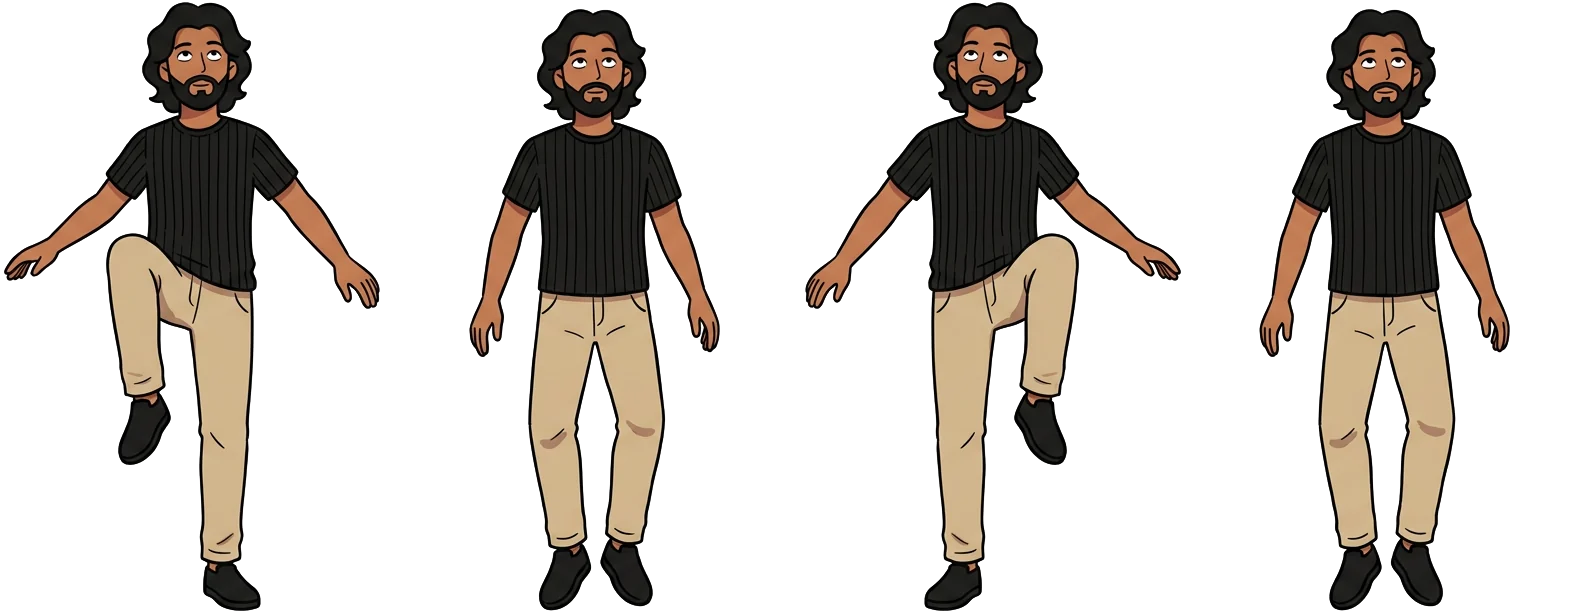
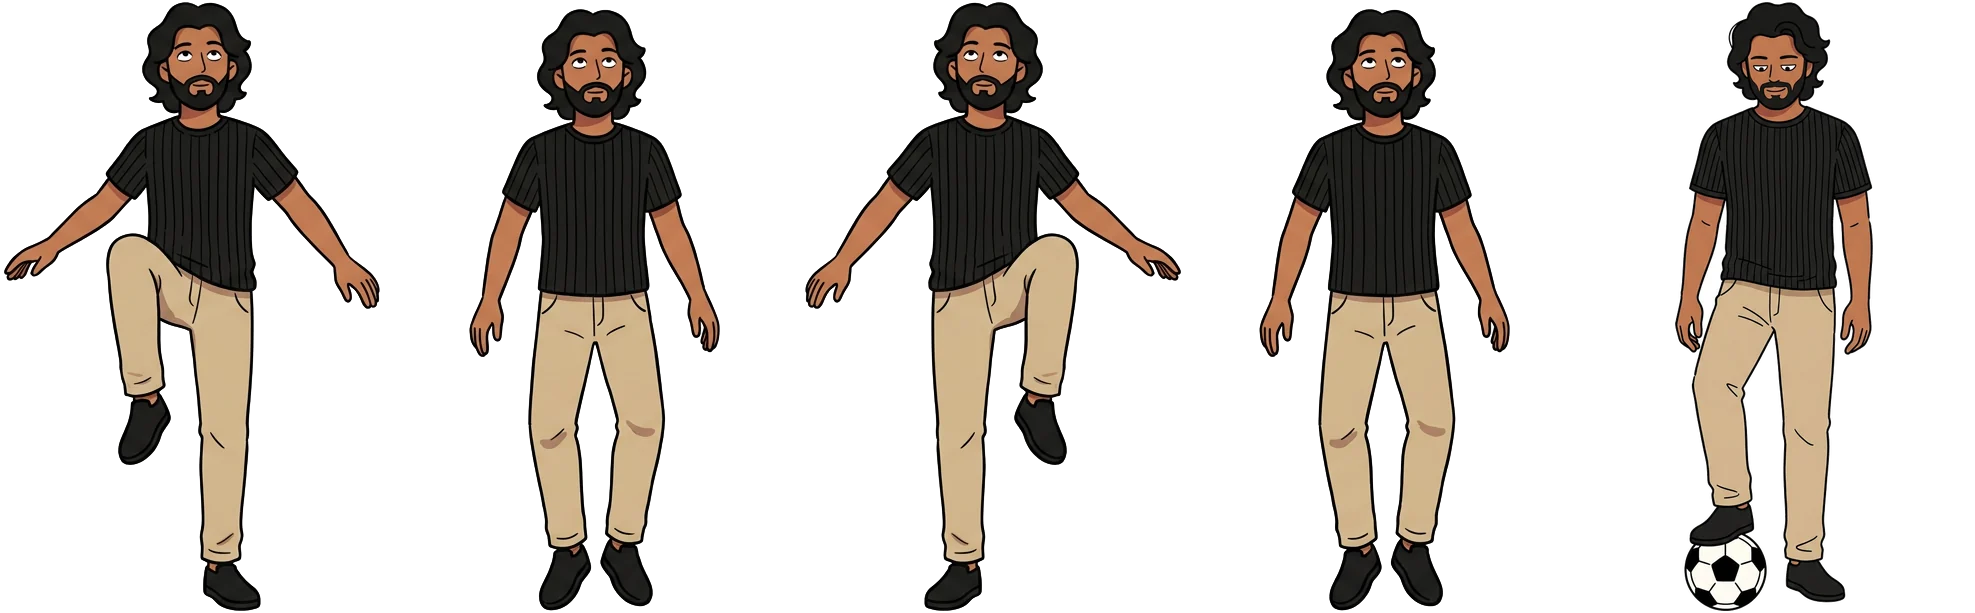
v136: keepy-ups rest with the foot on the ball, eyes follow the ball
- Rest pose: weight on the left leg, right foot on the ball on the ground
- Play starts and ends from that pose
- His eyes track the ball up and down to each foot

Claude-Session: https://claude.ai/code/session_013G15fzCMwgXvJexXZMdXm4

diff --git a/index.html b/index.html
@@ -24,11 +24,11 @@
   <meta property="og:image:height" content="630">
   <meta property="og:image:alt" content="Sijo Joseph, product, UX and AI designer, with four case study covers">
   <meta name="twitter:card" content="summary_large_image">
-  <script src="update.js?v=135"></script>
-  <script src="gate.js?v=135"></script>
-  <link href="fonts/fonts.css?v=135" rel="stylesheet">
-  <link rel="stylesheet" href="styles.css?v=135">
-  <link rel="stylesheet" href="reader.css?v=135">
+  <script src="update.js?v=136"></script>
+  <script src="gate.js?v=136"></script>
+  <link href="fonts/fonts.css?v=136" rel="stylesheet">
+  <link rel="stylesheet" href="styles.css?v=136">
+  <link rel="stylesheet" href="reader.css?v=136">
   <script type="importmap">
   {
     "imports": {
@@ -42,10 +42,10 @@
   <link rel="modulepreload" href="vendor/three/examples/jsm/loaders/GLTFLoader.js">
   <link rel="modulepreload" href="vendor/three/examples/jsm/controls/OrbitControls.js">
   <link rel="modulepreload" href="vendor/three/examples/jsm/libs/meshopt_decoder.module.js">
-  <link rel="modulepreload" href="main.js?v=135">
-  <link rel="modulepreload" href="sound.js?v=135">
-  <link rel="modulepreload" href="room-utils.js?v=135">
-  <link rel="modulepreload" href="cat.js?v=135">
+  <link rel="modulepreload" href="main.js?v=136">
+  <link rel="modulepreload" href="sound.js?v=136">
+  <link rel="modulepreload" href="room-utils.js?v=136">
+  <link rel="modulepreload" href="cat.js?v=136">
   <script type="application/ld+json">{"@context": "https://schema.org", "@type": "Person", "name": "Sijo Joseph", "url": "https://sijo.work/", "jobTitle": "Product, UX and AI designer", "alumniOf": {"@type": "CollegeOrUniversity", "name": "National Institute of Design, Bengaluru"}, "address": {"@type": "PostalAddress", "addressLocality": "Bengaluru", "addressCountry": "IN"}, "sameAs": ["https://www.linkedin.com/in/sijodesign", "https://github.com/sijojoseph7509-a11y"], "knowsAbout": ["Product design", "UX design", "Interaction design", "Information design", "Wayfinding", "Brand identity", "AI-assisted prototyping"]}</script>
 </head>
 <body>
@@ -91,8 +91,8 @@
     <!-- Sijo doing keepy-ups in a flat-colour editorial style (Figma AI): a strip of frames played as a flip-book in CSS, with the ball on top -->
     <button class="wl-work" id="introWork" type="button"><i>Here for the work?</i> <b>Skip the desk, see my projects</b> <span aria-hidden="true">→</span></button>
     <div class="wl-ill wl-juggle" aria-hidden="true">
-      <div class="wl-sprite"><img src="assets/welcome/juggle.webp" alt="" width="1580" height="613" decoding="async"></div>
-      <svg viewBox="0 0 395 613"><g class="wl-kick wl-kick-l" stroke="#161616" stroke-width="4" stroke-linecap="round"><path d="M106,494 l-16,4 M110,510 l-16,9 M164,490 l16,-5"/></g><g class="wl-kick wl-kick-r" stroke="#161616" stroke-width="4" stroke-linecap="round"><path d="M230,490 l-16,-5 M288,494 l16,4 M284,510 l16,9"/></g><g class="wl-ball"><g class="wl-spin"><circle r="24" fill="#fff" stroke="#161616" stroke-width="3.5"/><path d="M0,-8.4 L8.0,-2.6 L4.9,6.8 L-4.9,6.8 L-8.0,-2.6 Z" fill="#161616"/><path d="M0,-8.4 V-22.1 M8.0,-2.6 L20.9,-6.7 M4.9,6.8 L12.7,18.5 M-4.9,6.8 L-12.7,18.5 M-8.0,-2.6 L-20.9,-6.7" stroke="#161616" stroke-width="3" stroke-linecap="round" fill="none"/></g></g></svg>
+      <div class="wl-sprite"><img src="assets/welcome/juggle.webp" alt="" width="1975" height="613" decoding="async"></div>
+      <svg viewBox="0 0 395 613"><g class="wl-kick wl-kick-l" stroke="#161616" stroke-width="4" stroke-linecap="round"><path d="M106,494 l-16,4 M110,510 l-16,9 M164,490 l16,-5"/></g><g class="wl-kick wl-kick-r" stroke="#161616" stroke-width="4" stroke-linecap="round"><path d="M230,490 l-16,-5 M288,494 l16,4 M284,510 l16,9"/></g><g class="wl-eyes"><g class="wl-eye wl-eye-l"><ellipse rx="7.4" ry="5.6" fill="#fff" stroke="#161616" stroke-width="1.6"/><circle class="wl-pupil" r="2.7" fill="#161616"/></g><g class="wl-eye wl-eye-r"><ellipse rx="7.4" ry="5.6" fill="#fff" stroke="#161616" stroke-width="1.6"/><circle class="wl-pupil" r="2.7" fill="#161616"/></g></g><g class="wl-ball"><g class="wl-spin"><circle r="24" fill="#fff" stroke="#161616" stroke-width="3.5"/><path d="M0,-8.4 L8.0,-2.6 L4.9,6.8 L-4.9,6.8 L-8.0,-2.6 Z" fill="#161616"/><path d="M0,-8.4 V-22.1 M8.0,-2.6 L20.9,-6.7 M4.9,6.8 L12.7,18.5 M-4.9,6.8 L-12.7,18.5 M-8.0,-2.6 L-20.9,-6.7" stroke="#161616" stroke-width="3" stroke-linecap="round" fill="none"/></g></g></svg>
     </div>
     <div class="loader-inner">
       <span class="loader-name" role="img" aria-label="Sijo Joseph"><img src="assets/brand/sj-mark-on-dark.svg" alt=""></span>
@@ -195,11 +195,11 @@
     </div>
   </noscript>
 
-  <script src="content.js?v=135"></script>
-  <script src="track.js?v=135"></script>
-  <script src="icons.js?v=135"></script>
-  <script src="os.js?v=135"></script>
-  <script src="music.js?v=135"></script>
-  <script type="module" src="main.js?v=135"></script>
+  <script src="content.js?v=136"></script>
+  <script src="track.js?v=136"></script>
+  <script src="icons.js?v=136"></script>
+  <script src="os.js?v=136"></script>
+  <script src="music.js?v=136"></script>
+  <script type="module" src="main.js?v=136"></script>
 </body>
 </html>

diff --git a/styles.css b/styles.css
@@ -699,24 +699,36 @@ button.card .cover::before, button.card .cover::after { display: none; }   /* re
 
 /* each drawing is a strip of frames shown one at a time (a flip-book), so the legs and arms really move */
 .wl-sprite { position: relative; overflow: hidden; }
-.wl-ill .wl-sprite img { width: 400%; max-width: none; height: auto; transform: translateX(-50%); }
+.wl-ill .wl-sprite img { width: 500%; max-width: none; height: auto; transform: translateX(-80%); }   /* at rest: the fifth cell, right foot on the ball */
 .wl-juggle .wl-sprite { aspect-ratio: 395 / 613; }
 
 /* keepy-ups, both feet in turn: left knee, bounce, right knee, bounce; the ball goes foot to foot over his head, he hops between
    touches and drifts side to side */
-/* play, then rest: three touches when the page opens (and again on hover), then he stands balancing the ball on his right foot.
-   main.js adds .go and removes it when the frames finish; one touch every 1.6 s */
-.wl-juggle.go { animation: wlDrift 4.8s ease-in-out 1; }
-.wl-juggle.go .wl-sprite img { animation: wlJFrames 3.2s 1.5 forwards; }
-.wl-juggle.go .wl-sprite { animation: wlHop 3.2s ease-in-out 1.5; }
-.wl-juggle.go .wl-ball { animation: wlFoot 3.2s 1.5 forwards; }
-.wl-juggle.go .wl-spin { animation: wlSpin 1.6s linear 3; }
-.wl-juggle.go .wl-kick-l { animation: wlKickL 3.2s 1.5; } .wl-juggle.go .wl-kick-r { animation: wlKickR 3.2s 1.5; }
-@keyframes wlJFrames { 0% { transform: translateX(0); animation-timing-function: step-end; } 25% { transform: translateX(-25%); animation-timing-function: step-end; }
-  50% { transform: translateX(-50%); animation-timing-function: step-end; } 75%, 100% { transform: translateX(-75%); animation-timing-function: step-end; } }
+/* play, then rest: from the foot-on-ball pose he flicks it up and does four touches, right foot first (each animation starts half a
+   cycle in), then traps it under his right foot again. main.js adds .go and removes it when the frames finish; a touch every 1.6 s.
+   His eyes follow the ball: up as it rises, down to whichever foot it is falling to */
+.wl-juggle.go { animation: wlDrift 6.4s ease-in-out 1; }
+.wl-juggle.go .wl-sprite img { animation: wlJFrames 3.2s -1.6s 2; }
+.wl-juggle.go .wl-sprite { animation: wlHop 3.2s ease-in-out -1.6s 2; }
+.wl-juggle.go .wl-ball { animation: wlFoot 3.2s -1.6s 2; }
+.wl-juggle.go .wl-spin { animation: wlSpin 1.6s linear 4; }
+.wl-juggle.go .wl-kick-l { animation: wlKickL 3.2s -1.6s 2; } .wl-juggle.go .wl-kick-r { animation: wlKickR 3.2s -1.6s 2; }
+.wl-juggle.go .wl-eye-l { animation: wlEyeL 3.2s -1.6s 2; } .wl-juggle.go .wl-eye-r { animation: wlEyeR 3.2s -1.6s 2; }
+.wl-juggle.go .wl-pupil { animation: wlLook 3.2s -1.6s 2; }
+@keyframes wlEyeL { 0% { transform: translate(184px, 54px); animation-timing-function: step-end; } 25% { transform: translate(184px, 61px); animation-timing-function: step-end; }
+  50% { transform: translate(180.5px, 54px); animation-timing-function: step-end; } 75%, 100% { transform: translate(183.5px, 61px); animation-timing-function: step-end; } }
+@keyframes wlEyeR { 0% { transform: translate(213.5px, 54px); animation-timing-function: step-end; } 25% { transform: translate(213.5px, 61px); animation-timing-function: step-end; }
+  50% { transform: translate(210px, 54px); animation-timing-function: step-end; } 75%, 100% { transform: translate(212.5px, 60.5px); animation-timing-function: step-end; } }
+@keyframes wlLook {
+  0% { transform: translate(-2.6px, 2.4px); animation-timing-function: cubic-bezier(.15,.7,.35,1); } 25% { transform: translate(0, -2.6px); animation-timing-function: cubic-bezier(.65,0,.85,.3); }
+  50% { transform: translate(2.6px, 2.4px); animation-timing-function: cubic-bezier(.15,.7,.35,1); } 75% { transform: translate(0, -2.6px); animation-timing-function: cubic-bezier(.65,0,.85,.3); }
+  100% { transform: translate(-2.6px, 2.4px); } }
+@keyframes wlJFrames { 0% { transform: translateX(0); animation-timing-function: step-end; } 25% { transform: translateX(-20%); animation-timing-function: step-end; }
+  50% { transform: translateX(-40%); animation-timing-function: step-end; } 75%, 100% { transform: translateX(-60%); animation-timing-function: step-end; } }
 @keyframes wlHop { 0%, 22% { translate: 0 0; } 33% { translate: 0 -7px; } 46%, 72% { translate: 0 0; } 83% { translate: 0 -7px; } 96%, 100% { translate: 0 0; } }
-@keyframes wlDrift { 0%, 100% { translate: 0 0; } 25% { translate: -10px 0; } 75% { translate: 10px 0; } }
+@keyframes wlDrift { 0%, 100% { translate: 0 0; } 30% { translate: 10px 0; } 70% { translate: -10px 0; } }
 .wl-ball { transform: translate(258px, 488px); }
+.wl-juggle:not(.go) .wl-ball, .wl-juggle:not(.go) .wl-eyes { display: none; }   /* at rest the ball and eyes are part of the drawing */
 @keyframes wlFoot {
   0% { transform: translate(136px, 488px); animation-timing-function: cubic-bezier(.15,.7,.35,1); }
   25% { transform: translate(196px, -36px); animation-timing-function: cubic-bezier(.65,0,.85,.3); }

diff --git a/main.js b/main.js
@@ -5,8 +5,8 @@ import { RoomEnvironment } from "three/addons/environments/RoomEnvironment.js";
 import { GLTFLoader } from "three/addons/loaders/GLTFLoader.js";
 import { MeshoptDecoder } from "three/addons/libs/meshopt_decoder.module.js";
 import { mergeGeometries } from "three/addons/utils/BufferGeometryUtils.js";
-import { Sound } from "./sound.js?v=135";
-import { sharpen, rr, bezier, tileNoise, wrapText } from "./room-utils.js?v=135";
+import { Sound } from "./sound.js?v=136";
+import { sharpen, rr, bezier, tileNoise, wrapText } from "./room-utils.js?v=136";
 
 const S = window.SITE;
 const TOUCH = matchMedia("(pointer: coarse)").matches;   // phones & tablets: say "tap", no hover effects

diff --git a/HANDOVER.md b/HANDOVER.md
@@ -410,6 +410,7 @@ explorations · sketches · side projects · ideas"), poster text, terminal mess
 - **v133:** Welcome drawings now really move: each is a strip of frames (Figma AI sprite sheets, nodes 18:2 and 19:2, cut and aligned on the feet by tools in the session scratchpad) played as a flip-book in CSS (`.wl-sprite`, step-end keyframes). Keepy-ups (juggle.webp, 4 cells of 395x613): left knee, bounce, right knee (frame 1 mirrored), bounce over 2.2 s; the ball goes from under the left toe (136,488) over the head (196,-36) to under the right toe (258,488); a small hop on the bounce frames and a slow side-to-side drift (footwork). Shoulder press (lift.webp, 3 cells of 328x677): shoulders, halfway, locked out, halfway, down over 2.4 s; effort lines at lockout, sweat, the count goes 8, 9, 10! once per rep. Shea the cat removed (asset deleted).
 - **v134:** Gym drawing removed (Sijo preferred the keepy-ups alone; lift.webp deleted, still in Figma as 15:2, 16:2 and the sprite sheet 19:2). New bottom-centre pill on the welcome screen, `#introWork` "Here for the work? Skip the desk, see my projects →": enter(false, "work") then boot("work"), which zooms into the laptop and opens Work; without graphics acceleration enter() opens the requested section directly. Phones show only "Skip the desk, see my projects"; hidden on short screens.
 - **v135:** Keepy-ups calmed so the card wins attention: smaller (min(46vh, 480px)), further out (left 5vw), slower (a touch every 1.6 s), and play-then-rest: the animations only run while `.wl-juggle` has `.go`; main.js adds it 0.5 s after the welcome screen is ready and on mouseenter, and removes it on the wlJFrames animationend (three touches, 4.8 s). The rest pose is the right knee up with the ball balanced on the foot, the same as the last frame, so nothing jumps. Reduced motion: no play.
+- **v136:** Keepy-ups rest pose fixed for physics: a fifth cell in juggle.webp (Figma node 21:2) has his weight on the left leg and his right foot on the ball on the ground, looking down at it; that is the resting state (img at -80%). Play starts half a cycle in (right foot first), runs two cycles and ends back on the ball. Eyes (`.wl-eyes`, SVG whites + pupils laid over the drawn eyes, per-frame positions) follow the ball: up as it rises, down to the foot it falls to. Ball and eyes overlays hide at rest.
 - Work cards and About thumbnails use `case.coverSlide` when a project gives one (Syntra: `fx/cover-slide.webp`, 1440 × 900), otherwise the first section.
 - Desk folders: tab width now shares the edge (`TAB_W`), so 4+ projects never overlap.
 - ⚠ Testing note (14 Oct 2026): another session had an http-server on 127.0.0.1:4322 serving the `.claude/worktrees/goofy-solomon-8f688e` copy — always check `lsof -iTCP:<port>` or use a fresh port before trusting QA results.
